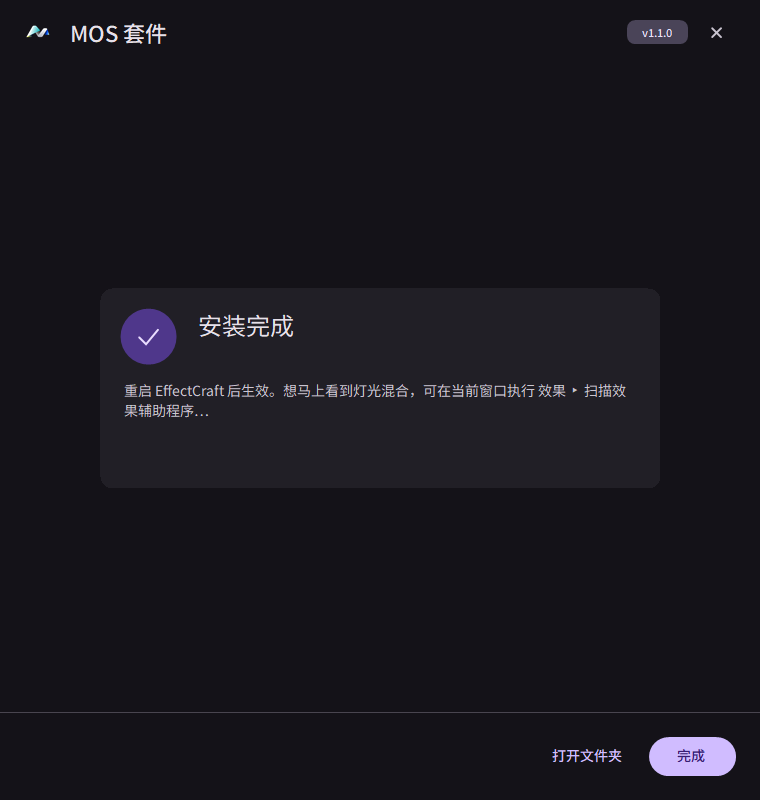
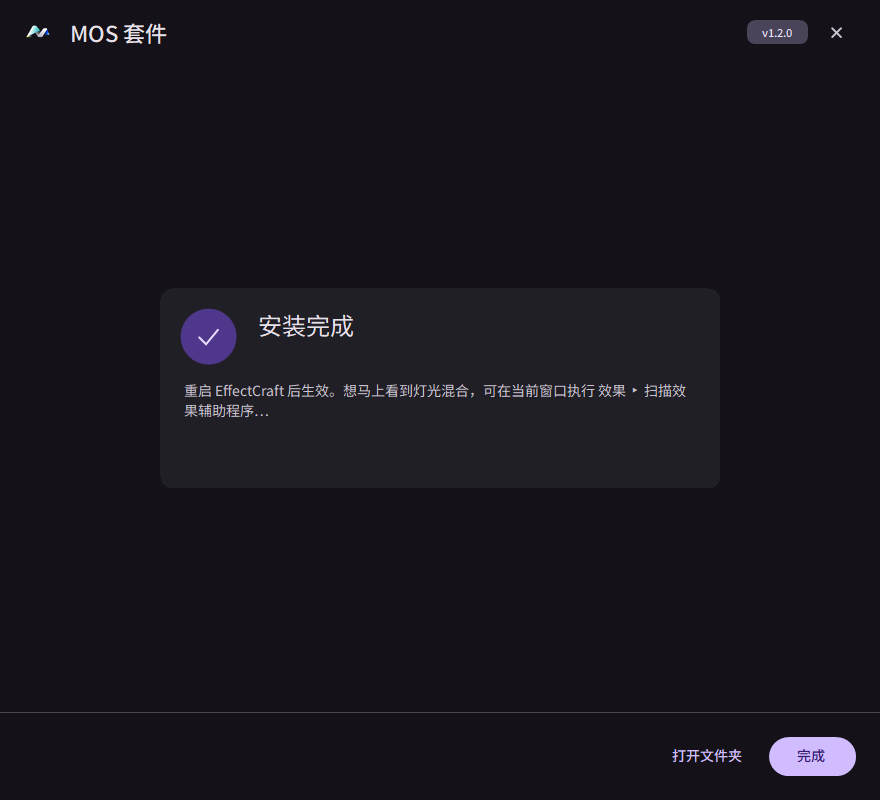
feat: ship mos_blur as a third effect group (1.2.0)

diff --git a/installer/src/InstallerForm.cs b/installer/src/InstallerForm.cs
@@ -44,6 +44,7 @@ namespace MosSuite
 
         private readonly List<ComponentRow> rows = new List<ComponentRow>();
         private readonly List<M3Text> groupLabels = new List<M3Text>();
+        private readonly List<string> groupIds = new List<string>();
         private M3ProgressBar bar;
         private M3Text statusLabel;
         private string errorText = "";
@@ -100,7 +101,7 @@ namespace MosSuite
             Theme.Init(dpiScale, uiLang == "zh");
             L10n.UiLang = uiLang;
             Font = Theme.BodyMedium;
-            ClientSize = new Size(Theme.Dp(760), Theme.Dp(800));
+            ClientSize = new Size(Theme.Dp(880), Theme.Dp(800));
             Rebuild();
         }
 
@@ -159,6 +160,7 @@ namespace MosSuite
 
             rows.Clear();
             groupLabels.Clear();
+            groupIds.Clear();
             bar = null;
             statusLabel = null;
             closeButton = null;
@@ -437,7 +439,7 @@ namespace MosSuite
             string names = L10n.ResolveNames(namesLanguage);
             for (int i = 0; i < groupLabels.Count; i++)
             {
-                groupLabels[i].Text = L10n.GroupName(i == 0 ? "deform" : "vfx", names);
+                groupLabels[i].Text = L10n.GroupName(groupIds[i], names);
             }
             foreach (ComponentRow row in rows)
             {
@@ -452,25 +454,37 @@ namespace MosSuite
             Widgets.Place(card, x, y, width, Theme.Dp(168));
             content.Controls.Add(card);
 
-            int colW = (width - Theme.Dp(48)) / 2;
+            // 16 dp padding on both sides and one 16 dp gutter between the three
+            // group columns.
+            int colW = (width - Theme.Dp(64)) / 3;
             int leftX = Theme.Dp(16);
-            int rightX = leftX + colW + Theme.Dp(16);
+            int midX = leftX + colW + Theme.Dp(16);
+            int rightX = midX + colW + Theme.Dp(16);
 
             string names = L10n.ResolveNames(namesLanguage);
             M3Text left = Widgets.Label(L10n.GroupName("deform", names), Theme.LabelLarge, Theme.Primary, Theme.SurfaceContainer);
             Widgets.Place(left, leftX, Theme.Dp(14), colW, Theme.Dp(20));
             card.Controls.Add(left);
             groupLabels.Add(left);
+            groupIds.Add("deform");
 
-            M3Text right = Widgets.Label(L10n.GroupName("vfx", names), Theme.LabelLarge, Theme.Primary, Theme.SurfaceContainer);
+            M3Text mid = Widgets.Label(L10n.GroupName("vfx", names), Theme.LabelLarge, Theme.Primary, Theme.SurfaceContainer);
+            Widgets.Place(mid, midX, Theme.Dp(14), colW, Theme.Dp(20));
+            card.Controls.Add(mid);
+            groupLabels.Add(mid);
+            groupIds.Add("vfx");
+
+            M3Text right = Widgets.Label(L10n.GroupName("blur", names), Theme.LabelLarge, Theme.Primary, Theme.SurfaceContainer);
             Widgets.Place(right, rightX, Theme.Dp(14), colW, Theme.Dp(20));
             card.Controls.Add(right);
             groupLabels.Add(right);
+            groupIds.Add("blur");
 
             AddRow(card, leftX, Theme.Dp(40), colW, "shake");
             AddRow(card, leftX, Theme.Dp(96), colW, "shrink");
-            AddRow(card, rightX, Theme.Dp(40), colW, "shadow");
-            AddRow(card, rightX, Theme.Dp(96), colW, "lightmix");
+            AddRow(card, midX, Theme.Dp(40), colW, "shadow");
+            AddRow(card, midX, Theme.Dp(96), colW, "lightmix");
+            AddRow(card, rightX, Theme.Dp(40), colW, "blur");
         }
 
         private void AddRow(M3Card card, int x, int y, int width, string id)

diff --git a/installer/src/L10n.cs b/installer/src/L10n.cs
@@ -20,7 +20,7 @@ namespace MosSuite
             { "app.title", "MOS 套件" },
             { "close.tip", "关闭" },
             { "hero.title", "安装 MOS 效果套件" },
-            { "hero.body", "阴影、抖动、收缩、灯光混合，4 个 EffectCraft 效果。" },
+            { "hero.body", "阴影、抖动、收缩、灯光混合、模糊，5 个 EffectCraft 效果。" },
             { "lang.names", "效果名称" },
             { "lang.names.hint", "英文时效果栏里的分组名、效果名显示英文；跟随系统则使用系统语言。" },
             { "lang.params", "参数语言" },
@@ -48,7 +48,7 @@ namespace MosSuite
             { "done.title", "安装完成" },
             { "done.body", "重启 EffectCraft 后生效。想马上看到灯光混合，可在当前窗口执行 效果 ▸ 扫描效果辅助程序…" },
             { "unin.title", "卸载 MOS 套件？" },
-            { "unin.body", "会删除这 4 个效果和语言设置，不影响其他插件和工程文件。" },
+            { "unin.body", "会删除这 5 个效果和语言设置，不影响其他插件和工程文件。" },
             { "unin.done", "已卸载" },
             { "unin.failed", "卸载没有完成" },
             { "state.installed", "已安装 {0}" },
@@ -72,7 +72,7 @@ namespace MosSuite
             { "app.title", "MOS Suite" },
             { "close.tip", "Close" },
             { "hero.title", "Install the MOS effects suite" },
-            { "hero.body", "Shadow, Shake, Shrink and Light Mix — four EffectCraft effects." },
+            { "hero.body", "Shadow, Shake, Shrink, Light Mix and Blur — five EffectCraft effects." },
             { "lang.names", "Effect names" },
             { "lang.names.hint", "English shows English group and effect names in the Effects panel; System uses your language." },
             { "lang.params", "Parameter language" },
@@ -100,7 +100,7 @@ namespace MosSuite
             { "done.title", "Installation complete" },
             { "done.body", "Restart EffectCraft to load the effects. To show Light Mix right away, run Effects ▸ Scan Effect Helpers… in the open window." },
             { "unin.title", "Uninstall the MOS Suite?" },
-            { "unin.body", "Removes the four effects and their language settings. Other plug-ins and projects are not touched." },
+            { "unin.body", "Removes the five effects and their language settings. Other plug-ins and projects are not touched." },
             { "unin.done", "Uninstalled" },
             { "unin.failed", "Uninstall did not finish" },
             { "state.installed", "Installed {0}" },
@@ -169,6 +169,7 @@ namespace MosSuite
                 case "shadow": return en ? "mos_shadow" : "mos_阴影";
                 case "shake": return en ? "mos_shake" : "mos_抖动";
                 case "shrink": return en ? "mos_shrink" : "mos_收缩";
+                case "blur": return en ? "mos_blur" : "mos_模糊";
                 case "lightmix": return en ? "mos_lightmix" : "mos_灯光混合";
             }
             return id;
@@ -178,6 +179,7 @@ namespace MosSuite
         {
             bool en = lang == "en";
             if (group == "deform") return en ? "MOS Deform" : "MOS 形变";
+            if (group == "blur") return en ? "MOS Blur" : "MOS 模糊";
             return en ? "MOS VFX" : "MOS 视效";
         }
     }

diff --git a/installer/src/InstallerCore.cs b/installer/src/InstallerCore.cs
@@ -64,13 +64,14 @@ namespace MosSuite
             if (id == "shake") wasm = "mos_shake.wasm";
             else if (id == "shrink") wasm = "mos_shrink.wasm";
             else if (id == "shadow") wasm = "mos_shadow.wasm";
+            else if (id == "blur") wasm = "mos_blur.wasm";
             return wasm.Length > 0 && File.Exists(Path.Combine(Root, "Plug-ins", wasm));
         }
     }
 
     internal static class InstallerCore
     {
-        public const string SuiteVersion = "1.1.0";
+        public const string SuiteVersion = "1.2.0";
         public const string ConfigName = "mos-suite.json";
         public const string RecordDir = "mos-suite";
         public const string HelperExe = "effectcraft-helper-mos-lightmix.exe";
@@ -87,6 +88,7 @@ namespace MosSuite
             list.Add(new ComponentInfo { Id = "shake", Wasm = "mos_shake.wasm", Version = "1.2.0", Group = "deform" });
             list.Add(new ComponentInfo { Id = "shrink", Wasm = "mos_shrink.wasm", Version = "1.3.7", Group = "deform" });
             list.Add(new ComponentInfo { Id = "shadow", Wasm = "mos_shadow.wasm", Version = "0.6.2", Group = "vfx" });
+            list.Add(new ComponentInfo { Id = "blur", Wasm = "mos_blur.wasm", Version = "0.1.0", Group = "blur" });
             list.Add(new ComponentInfo { Id = "lightmix", Wasm = "", Version = "1.5.0", Group = "vfx" });
             return list;
         }
@@ -321,6 +323,7 @@ namespace MosSuite
                 List<string> files = new List<string>(state.Files);
                 string[] known = {
                     "Plug-ins\\mos_shadow.wasm", "Plug-ins\\mos_shake.wasm", "Plug-ins\\mos_shrink.wasm",
+                    "Plug-ins\\mos_blur.wasm",
                     "helpers\\" + HelperExe, "Scripts\\Startup\\" + StartupScript,
                     Path.Combine(RecordDir, "manual", "zh", "安装说明.md"),
                     Path.Combine(RecordDir, "manual", "en", "Install-Guide.md")

diff --git a/installer/src/AssemblyInfo.cs b/installer/src/AssemblyInfo.cs
@@ -9,6 +9,6 @@ using System.Runtime.InteropServices;
 [assembly: AssemblyCompany("MOSSLS")]
 [assembly: AssemblyProduct("MOS Suite")]
 [assembly: AssemblyCopyright("AGPL-3.0-or-later")]
-[assembly: AssemblyVersion("1.1.0.0")]
-[assembly: AssemblyFileVersion("1.1.0.0")]
+[assembly: AssemblyVersion("1.2.0.0")]
+[assembly: AssemblyFileVersion("1.2.0.0")]
 [assembly: ComVisible(false)]

diff --git a/docs/en/Install-Guide.md b/docs/en/Install-Guide.md
@@ -1,6 +1,6 @@
 # MOS Suite · Manual Installation Guide
 
-For EffectCraft. The suite ships four effects in two Effects-panel groups:
+For EffectCraft. The suite ships five effects in three Effects-panel groups:
 
 | Group | Effect | Effect ID | Version |
 | --- | --- | --- | --- |
@@ -8,12 +8,13 @@ For EffectCraft. The suite ships four effects in two Effects-panel groups:
 | MOS Deform | mos_shrink | mos.shrink | 1.3.7 |
 | MOS VFX | mos_shadow | mos.shadow | 0.6.2 |
 | MOS VFX | mos_lightmix | mos.lightwrap | 1.5.0 |
+| MOS Blur | mos_blur | mos.blur | 0.1.0 |
 
 Default install folder: `%APPDATA%\EffectCraft` (`C:\Users\<you>\AppData\Roaming\EffectCraft`).
 
 ## Option 1 — the installer (recommended)
 
-Run `MOS-Suite-Setup-1.1.0.exe`. The installer follows the system language on its own; there is no installer-language picker. It offers two language settings:
+Run `MOS-Suite-Setup-1.2.0.exe`. The installer follows the system language on its own; there is no installer-language picker. It offers two language settings:
 
 1. **Effect names** (System / English) — the language of the **group and effect names** in the Effects panel. "System" follows the Windows display language and falls back to English on non-Chinese systems.
 2. **Parameter language** (System / 中文 / English) — the language of **parameter names and popup options** inside the effect controls. "System" follows the system language and falls back to English when the suite has no build for it (Japanese, for example).
@@ -30,13 +31,14 @@ Quit EffectCraft completely, and end `effectcraft-helper-mos-lightmix.exe` if Li
 
 ### 2. Copy the files
 
-The installer payload carries the three wasm effects in four "names × parameters" combinations. Folder names are `<names>-<params>`: `zh-zh`, `zh-en`, `en-zh`, `en-en`. Pick your combination first (for example "names follow system = Chinese, parameters = English" is `zh-en`), then copy:
+The installer payload carries the four wasm effects in four "names × parameters" combinations. Folder names are `<names>-<params>`: `zh-zh`, `zh-en`, `en-zh`, `en-en`. Pick your combination first (for example "names follow system = Chinese, parameters = English" is `zh-en`), then copy:
 
 | Destination | Source |
 | --- | --- |
 | `Plug-ins\mos_shadow.wasm` | `plug-ins\<pair>\mos_shadow.wasm` |
 | `Plug-ins\mos_shake.wasm` | `plug-ins\<pair>\mos_shake.wasm` |
 | `Plug-ins\mos_shrink.wasm` | `plug-ins\<pair>\mos_shrink.wasm` |
+| `Plug-ins\mos_blur.wasm` | `plug-ins\<pair>\mos_blur.wasm` |
 | `helpers\effectcraft-helper-mos-lightmix.exe` | `helper\effectcraft-helper-mos-lightmix.exe` |
 | `Scripts\Startup\mos-load-helpers.jsx` | `scripts\mos-load-helpers.jsx` |
 | `mos-suite\manual\zh\安装说明.md` | `manual\zh\安装说明.md` |
@@ -51,7 +53,7 @@ Create `%APPDATA%\EffectCraft\mos-suite.json` (UTF-8, no BOM):
 ```json
 {
   "schema": 2,
-  "suiteVersion": "1.1.0",
+  "suiteVersion": "1.2.0",
   "namesLanguage": "system",
   "paramsLanguage": "system",
   "namesResolved": "en",
@@ -71,13 +73,13 @@ EffectCraft ▸ Settings ▸ Scripting & Expressions ▸ enable **Allow Scripts 
 
 ### 5. Verify
 
-Open the Effects panel: you should see **MOS Deform** and **MOS VFX** (or **MOS 形变 / MOS 视效** in Chinese). Drag one onto a layer to try it.
+Open the Effects panel: you should see **MOS Deform**, **MOS VFX** and **MOS Blur** (or **MOS 形变 / MOS 视效 / MOS 模糊** in Chinese). Drag one onto a layer to try it.
 
 ## Uninstall
 
 Quit EffectCraft, then delete:
 
-- `Plug-ins\mos_shadow.wasm`, `mos_shake.wasm`, `mos_shrink.wasm`
+- `Plug-ins\mos_shadow.wasm`, `mos_shake.wasm`, `mos_shrink.wasm`, `mos_blur.wasm`
 - `helpers\effectcraft-helper-mos-lightmix.exe`
 - `Scripts\Startup\mos-load-helpers.jsx`
 - the whole `mos-suite\` folder
@@ -91,6 +93,8 @@ If you used the installer, just reopen it and press **Uninstall**.
 
 **Light Mix picks the wrong background position.** The helper cannot read background-layer transforms — a known limitation. Pre-compose the background and use the comp as the background layer.
 
+**Blur on an adjustment layer shows no edge feathering.** An adjustment layer's mask is applied *after* the effect, so the wasm only sees a fully opaque buffer and cannot locate the mask edge: `Size` blurs evenly and `Edge Feather` produces no gradient. Put the effect on the normal layer below instead — that layer's alpha is the mask coverage. Also leave **Keep original opacity** off on adjustment layers, or the effect disappears entirely.
+
 **Replacing a wasm fails with access denied.** EffectCraft is still running; quit it fully and retry.
 
 **Names and parameters use different languages, or a language change does nothing.** Each wasm carries exactly one names+parameters combination, so either re-run the installer (it swaps the wasm) or replace the wasm with the matching `<pair>` build by hand; keep `namesResolved` / `paramsResolved` in `mos-suite.json` in sync and restart.
@@ -99,4 +103,4 @@ If you used the installer, just reopen it and press **Uninstall**.
 
 ## License
 
-The four effects are distributed under AGPL-3.0-or-later (see the suite repository `LICENSE`); if you run a modified version as a network service you must offer its source. Light Mix is an independent implementation of a light-wrap style effect and contains no code or assets from any third-party product.
+The five effects are distributed under AGPL-3.0-or-later (see the suite repository `LICENSE`); if you run a modified version as a network service you must offer its source. Light Mix is an independent implementation of a light-wrap style effect and contains no code or assets from any third-party product.

diff --git a/docs/zh/安装说明.md b/docs/zh/安装说明.md
@@ -1,6 +1,6 @@
 # MOS 套件 · 手动安装说明
 
-适用于 EffectCraft。套件含 4 个效果，在效果面板里分成两组：
+适用于 EffectCraft。套件含 5 个效果，在效果面板里分成三组：
 
 | 分组 | 效果 | 效果 ID | 版本 |
 | --- | --- | --- | --- |
@@ -8,12 +8,13 @@
 | MOS 形变 | mos_收缩 | mos.shrink | 1.3.7 |
 | MOS 视效 | mos_阴影 | mos.shadow | 0.6.2 |
 | MOS 视效 | mos_灯光混合 | mos.lightwrap | 1.5.0 |
+| MOS 模糊 | mos_模糊 | mos.blur | 0.1.0 |
 
 默认安装目录：`%APPDATA%\EffectCraft`（即 `C:\Users\<你的用户名>\AppData\Roaming\EffectCraft`）。
 
 ## 方法一：安装器（推荐）
 
-双击 `MOS-Suite-Setup-1.1.0.exe`。安装器界面跟随系统语言，不需要选安装器语言；里面只有两组语言设置：
+双击 `MOS-Suite-Setup-1.2.0.exe`。安装器界面跟随系统语言，不需要选安装器语言；里面只有两组语言设置：
 
 1. **效果名称**（跟随系统 / English）——决定效果面板里**分组名和效果名**用哪种语言。选「跟随系统」时跟着 Windows 显示语言走，系统不是中文就用英文。
 2. **参数语言**（跟随系统 / 中文 / English）——决定**效果控件里的参数名和下拉选项**用哪种语言。选「跟随系统」时跟着系统走；套件没有系统语言对应的构建时（例如系统是日语）默认为英文。
@@ -29,13 +30,14 @@
 
 ### 2. 复制文件
 
-安装包里的三个 wasm 各准备了 4 种「名称 × 参数」组合，目录名就是 `<名称语言>-<参数语言>`：`zh-zh`、`zh-en`、`en-zh`、`en-en`。先定下你要的组合（例如「名称跟随系统=中文、参数=英文」就是 `zh-en`），再复制：
+安装包里的四个 wasm 各准备了 4 种「名称 × 参数」组合，目录名就是 `<名称语言>-<参数语言>`：`zh-zh`、`zh-en`、`en-zh`、`en-en`。先定下你要的组合（例如「名称跟随系统=中文、参数=英文」就是 `zh-en`），再复制：
 
 | 目标位置 | 来源 |
 | --- | --- |
 | `Plug-ins\mos_shadow.wasm` | `plug-ins\<组合>\mos_shadow.wasm` |
 | `Plug-ins\mos_shake.wasm` | `plug-ins\<组合>\mos_shake.wasm` |
 | `Plug-ins\mos_shrink.wasm` | `plug-ins\<组合>\mos_shrink.wasm` |
+| `Plug-ins\mos_blur.wasm` | `plug-ins\<组合>\mos_blur.wasm` |
 | `helpers\effectcraft-helper-mos-lightmix.exe` | `helper\effectcraft-helper-mos-lightmix.exe` |
 | `Scripts\Startup\mos-load-helpers.jsx` | `scripts\mos-load-helpers.jsx` |
 | `mos-suite\manual\zh\安装说明.md` | `manual\zh\安装说明.md` |
@@ -50,7 +52,7 @@
 ```json
 {
   "schema": 2,
-  "suiteVersion": "1.1.0",
+  "suiteVersion": "1.2.0",
   "namesLanguage": "system",
   "paramsLanguage": "system",
   "namesResolved": "zh",
@@ -70,13 +72,13 @@ EffectCraft ▸ 设置 ▸ Scripting & Expressions ▸ 勾选「Allow Scripts to
 
 ### 5. 检查
 
-打开效果面板，应该能看到对应的分组（**MOS 形变 / MOS 视效**，或英文的 **MOS Deform / MOS VFX**）。拖动一个图层添加效果试试。
+打开效果面板，应该能看到对应的分组（**MOS 形变 / MOS 视效 / MOS 模糊**，或英文的 **MOS Deform / MOS VFX / MOS Blur**）。拖动一个图层添加效果试试。
 
 ## 卸载
 
 退出 EffectCraft，删除：
 
-- `Plug-ins\mos_shadow.wasm`、`mos_shake.wasm`、`mos_shrink.wasm`
+- `Plug-ins\mos_shadow.wasm`、`mos_shake.wasm`、`mos_shrink.wasm`、`mos_blur.wasm`
 - `helpers\effectcraft-helper-mos-lightmix.exe`
 - `Scripts\Startup\mos-load-helpers.jsx`
 - `mos-suite\` 整个目录
@@ -90,6 +92,8 @@ EffectCraft ▸ 设置 ▸ Scripting & Expressions ▸ 勾选「Allow Scripts to
 
 **灯光混合的背景图层位置不对。** 助手读不到背景图层的变换，这是已知限制：先把背景层预合成，再把它当背景图层用。
 
+**模糊装在调整图层上，边缘羽化看不出分级。** 调整图层的蒙版是在效果**之后**才生效的，wasm 里拿不到蒙版的几何信息，只剩 alpha=1 的整块图，所以只有「模糊大小」在均匀糊、「边缘羽化」不产生由内到外的分级。想要真正的边缘羽化，把效果挂在下面那个普通图层上（该图层的 alpha 就是蒙版覆盖率）。另外调整图层上不要开「保留原不透明度」，否则整个效果会消失。
+
 **覆盖 wasm 报拒绝访问。** EffectCraft 还开着，完全退出后重试。
 
 **名称和参数语言不一致 / 切换不生效。** 每个 wasm 只带一种「名称 + 参数」组合，改语言要用安装器重装（它会换对应 wasm），或者手动按第 2 步换成对应组合的 wasm；`mos-suite.json` 里的 `namesResolved` / `paramsResolved` 也要对应，改完重启。
@@ -98,4 +102,4 @@ EffectCraft ▸ 设置 ▸ Scripting & Expressions ▸ 勾选「Allow Scripts to
 
 ## 许可证
 
-安装包内的 4 个效果按 AGPL-3.0-or-later 许可证分发（见套件仓库的 `LICENSE`）；把修改版作为网络服务提供时需要公开源码。灯光混合是 Light Wrap 类效果的独立实现，不包含第三方产品的代码或素材。
+安装包内的 5 个效果按 AGPL-3.0-or-later 许可证分发（见套件仓库的 `LICENSE`）；把修改版作为网络服务提供时需要公开源码。灯光混合是 Light Wrap 类效果的独立实现，不包含第三方产品的代码或素材。
